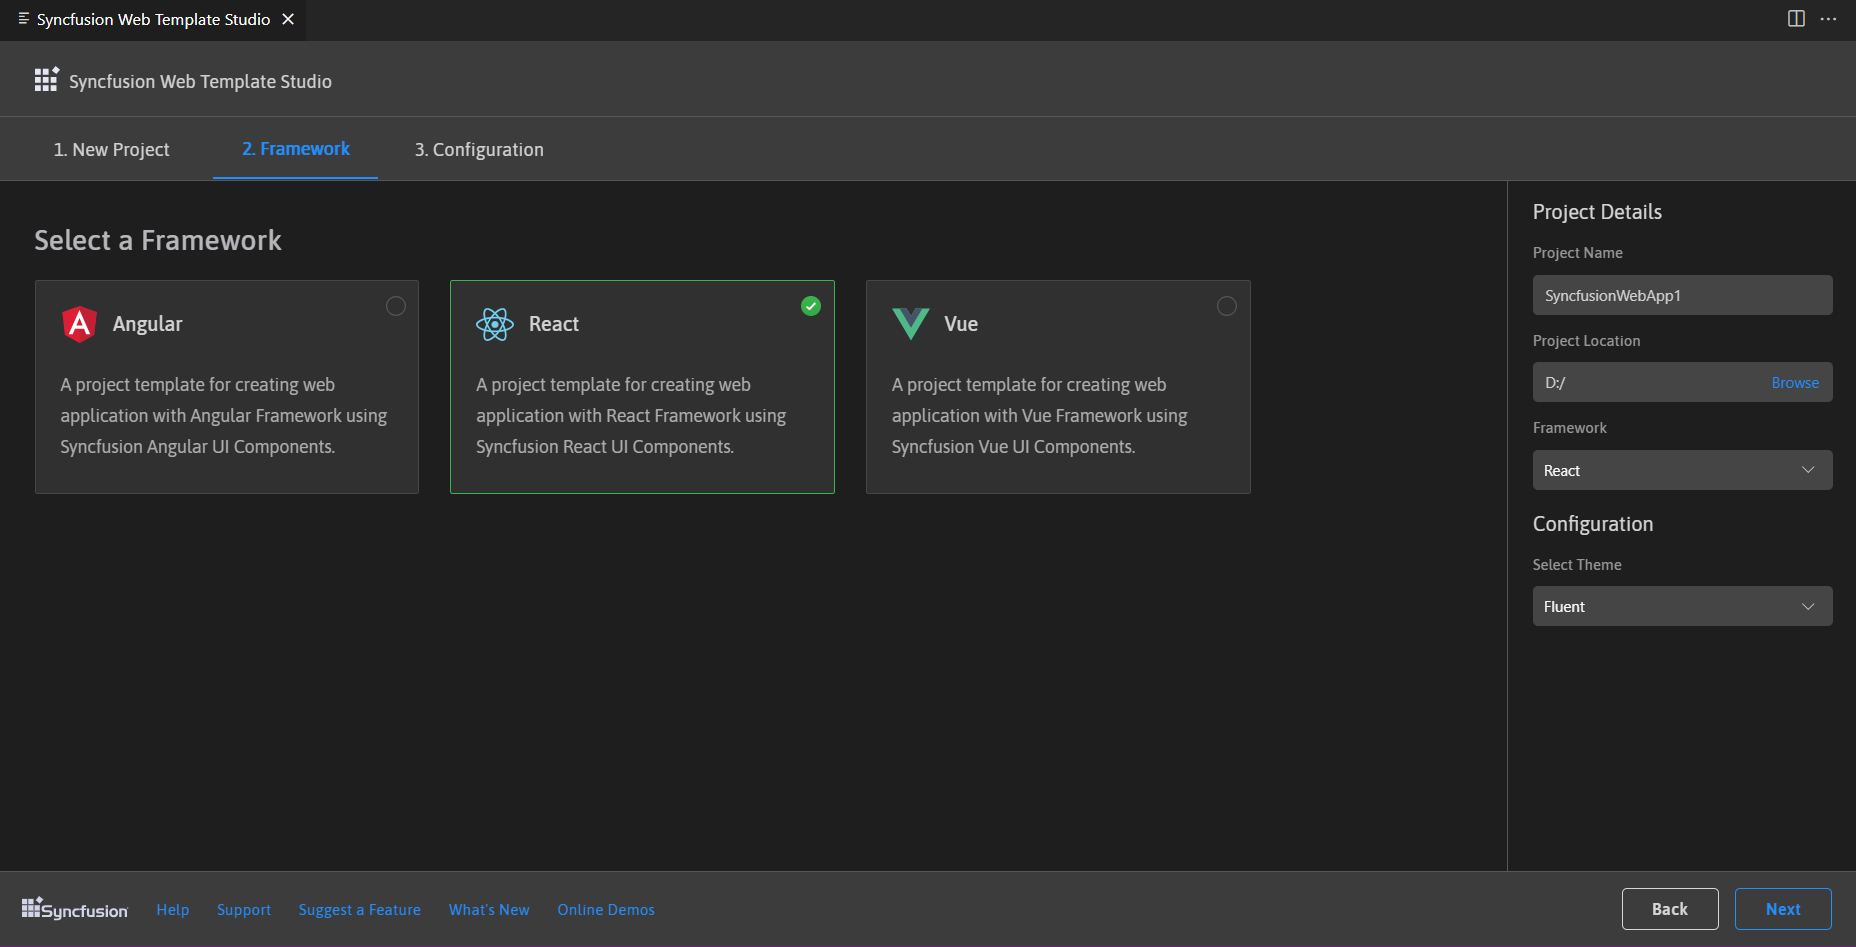
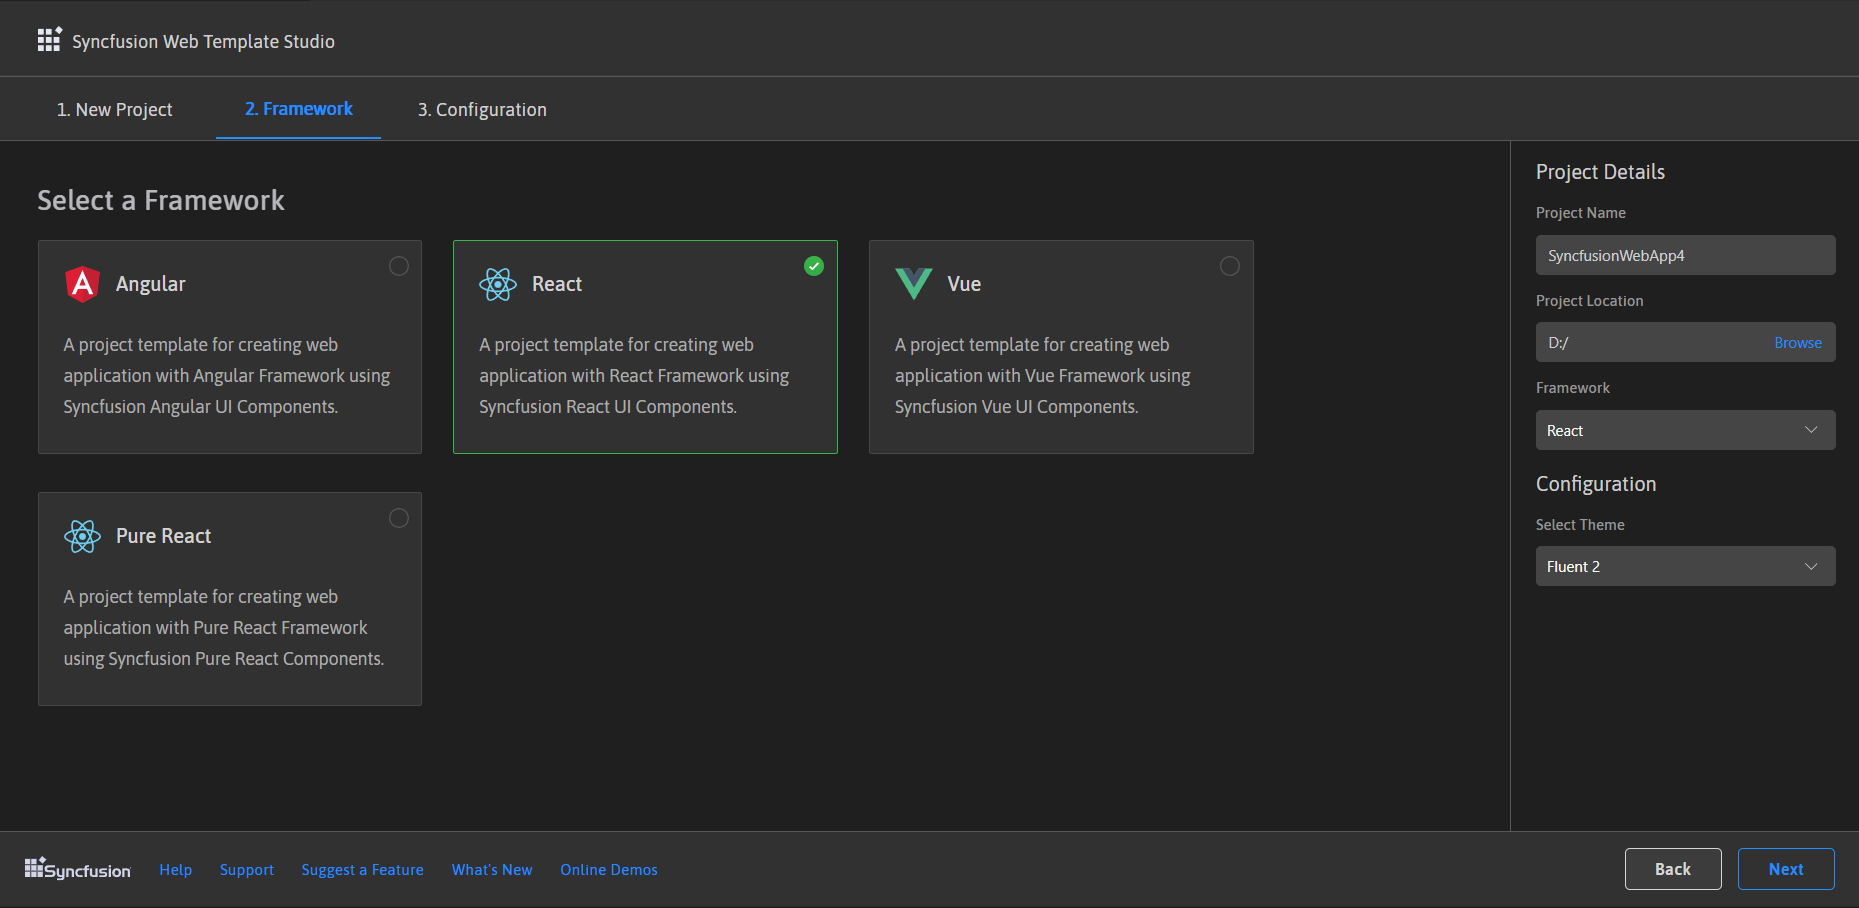
Pure React changes

diff --git a/ej2-react/visual-studio-code-integration/create-project.md b/ej2-react/visual-studio-code-integration/create-project.md
@@ -22,12 +22,13 @@ The steps below help you to create **Syncfusion<sup style="font-size:70%">&reg;<
 
     ![CreateProjectPalette](images/CreateProjectPalette.png)
 
-2. Select **Syncfusion<sup style="font-size:70%">&reg;</sup> Web Template Studio: Launch** and then press enter, Template Studio wizard for configuring the Syncfusion<sup style="font-size:70%">&reg;</sup> Web app will appear. Provide the require Project Name and Path to create the new Syncfusion<sup style="font-size:70%">&reg;</sup> Web application along with any one of the Framework (React, Angular, and Vue).
+2. Select **Syncfusion<sup style="font-size:70%">&reg;</sup> Web Template Studio: Launch** and then press enter, Template Studio wizard for configuring the Syncfusion<sup style="font-size:70%">&reg;</sup> Web app will appear. Provide the require Project Name and Path to create the new Syncfusion<sup style="font-size:70%">&reg;</sup> Web application along with any one of the Framework (React, Pure React, Angular, and Vue).
 
     ![ProjectLocation](images/ProjectLocationName.png)
 
 3. Click either **Next** or **Framework** tab, and the Framework types will be appears. Choose any one of the Framework:
    * React
+   * Pure React
    * Angular
    * Vue
 

diff --git a/ej2-react/visual-studio-code-integration/overview.md b/ej2-react/visual-studio-code-integration/overview.md
@@ -12,7 +12,7 @@ domainurl: ##DomainURL##
 
 ## Overview
 
-The Syncfusion<sup style="font-size:70%">&reg;</sup> Essential Studio<sup style="font-size:70%">&reg;</sup> Web extension for Visual Studio Code allows you to use the Syncfusion<sup style="font-size:70%">&reg;</sup> JavaScript components(React, Angular, and Vue) easily by configuring the Syncfusion<sup style="font-size:70%">&reg;</sup> NPM packages and themes.
+The Syncfusion<sup style="font-size:70%">&reg;</sup> Essential Studio<sup style="font-size:70%">&reg;</sup> Web extension for Visual Studio Code allows you to use the Syncfusion<sup style="font-size:70%">&reg;</sup> JavaScript components(React, Pure React, Angular, and Vue) easily by configuring the Syncfusion<sup style="font-size:70%">&reg;</sup> NPM packages and themes.
 
 The Syncfusion<sup style="font-size:70%">&reg;</sup> Web Extension provides the following support in Visual Studio Code:
 
